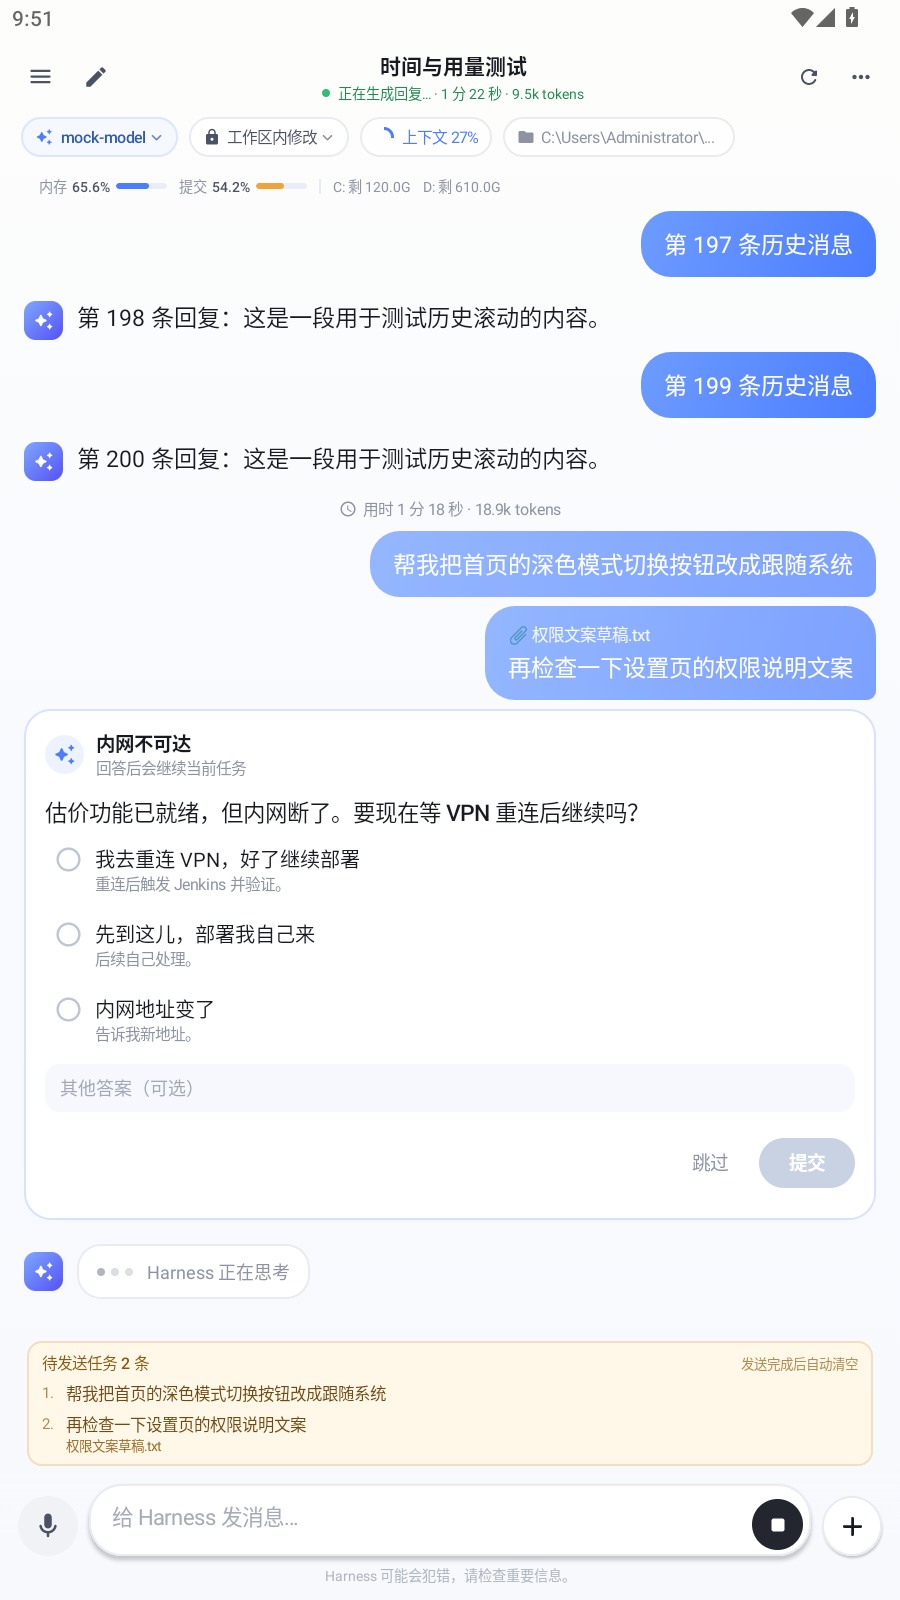
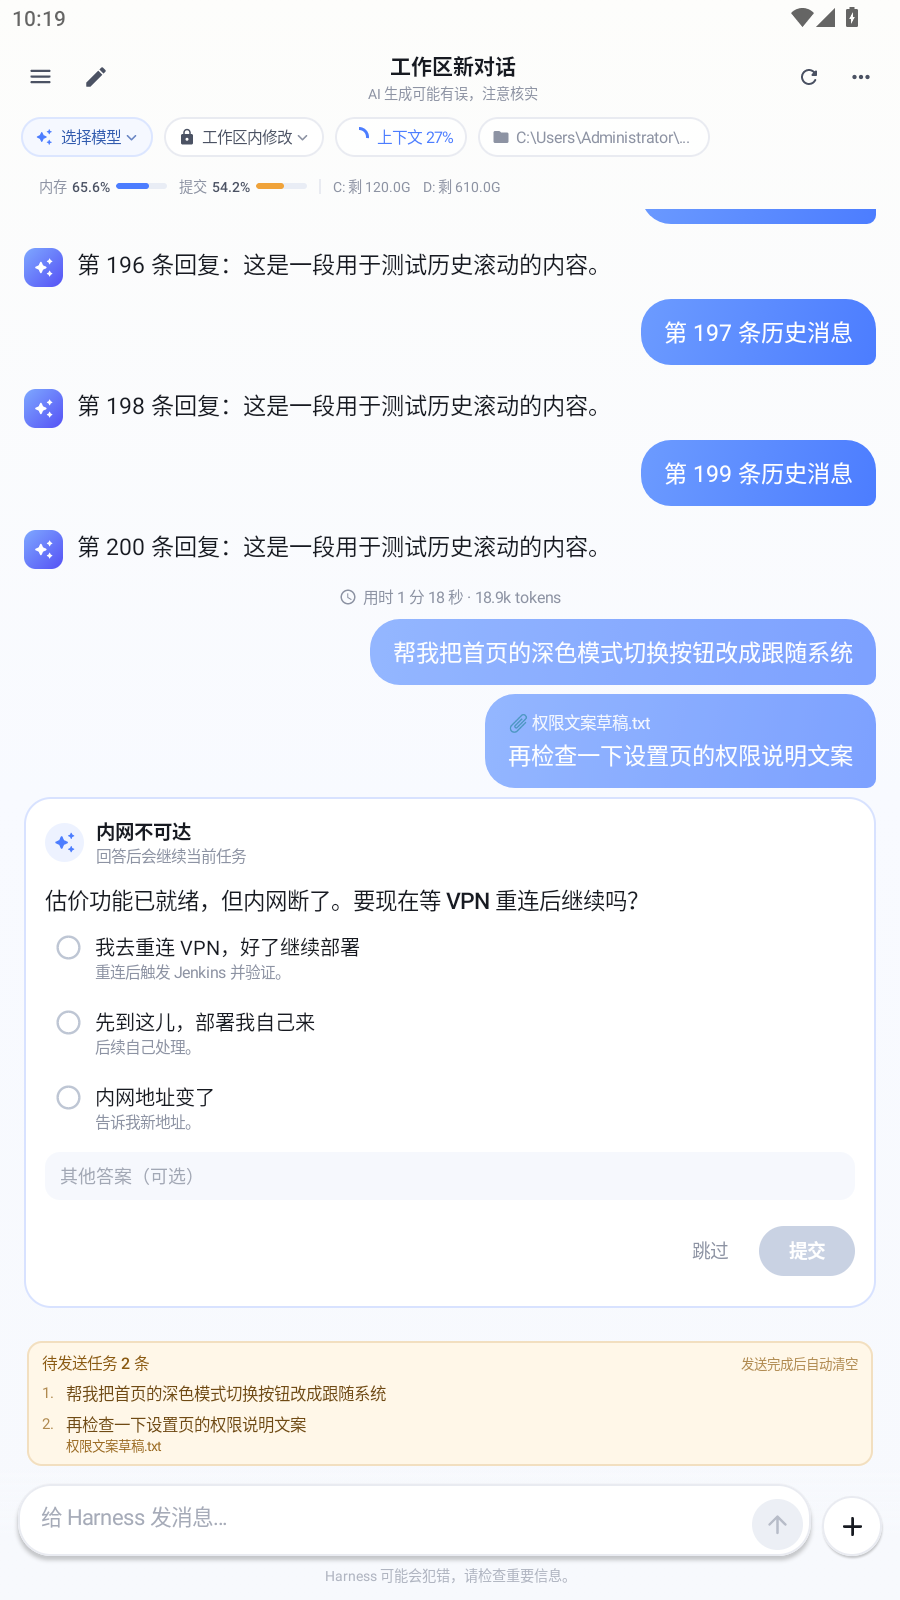
feat: remove voice input entry

diff --git a/app/src/main/java/dev/harness/pocket/ui/ChatScreen.kt b/app/src/main/java/dev/harness/pocket/ui/ChatScreen.kt
@@ -1,14 +1,7 @@
 package dev.harness.pocket.ui
 
-import android.app.Activity
-import android.content.ActivityNotFoundException
-import android.content.Intent
 import android.graphics.BitmapFactory
-import android.speech.RecognizerIntent
-import android.widget.Toast
 import androidx.activity.compose.BackHandler
-import androidx.activity.compose.rememberLauncherForActivityResult
-import androidx.activity.result.contract.ActivityResultContracts
 import androidx.compose.foundation.BorderStroke
 import androidx.compose.foundation.Image
 import androidx.compose.foundation.background
@@ -54,7 +47,6 @@ import androidx.compose.material.icons.rounded.InsertDriveFile
 import androidx.compose.material.icons.rounded.KeyboardArrowDown
 import androidx.compose.material.icons.rounded.Lock
 import androidx.compose.material.icons.rounded.Menu
-import androidx.compose.material.icons.rounded.Mic
 import androidx.compose.material.icons.rounded.MoreHoriz
 import androidx.compose.material.icons.rounded.PhotoCamera
 import androidx.compose.material.icons.rounded.PhotoLibrary
@@ -120,7 +112,6 @@ import dev.harness.pocket.data.TokenUsage
 import dev.harness.pocket.data.ToolItem
 import dev.harness.pocket.data.TurnStart
 import dev.harness.pocket.data.UserMessage
-import java.util.Locale
 import kotlinx.coroutines.Dispatchers
 import kotlinx.coroutines.delay
 import kotlinx.coroutines.withContext
@@ -165,67 +156,9 @@ fun ChatScreen(
     var menuOpen by remember { mutableStateOf(false) }
     var renameOpen by remember { mutableStateOf(false) }
     val focusManager = LocalFocusManager.current
-    val keyboardController = LocalSoftwareKeyboardController.current
     val focusRequester = remember { FocusRequester() }
-    val voiceLauncher = rememberLauncherForActivityResult(
-        ActivityResultContracts.StartActivityForResult()
-    ) { result ->
-        if (result.resultCode == Activity.RESULT_OK) {
-            val spoken = result.data
-                ?.getStringArrayListExtra(RecognizerIntent.EXTRA_RESULTS)
-                ?.firstOrNull()
-                ?.trim()
-            if (!spoken.isNullOrBlank()) {
-                onDraftChange(if (draft.isBlank()) spoken else draft.trimEnd() + " " + spoken)
-                focusRequester.requestFocus()
-            }
-        }
-    }
-
-    var voiceError by remember { mutableStateOf<String?>(null) }
-
-    fun startVoiceInput() {
-        val intent = Intent(RecognizerIntent.ACTION_RECOGNIZE_SPEECH).apply {
-            putExtra(
-                RecognizerIntent.EXTRA_LANGUAGE_MODEL,
-                RecognizerIntent.LANGUAGE_MODEL_FREE_FORM
-            )
-            putExtra(RecognizerIntent.EXTRA_LANGUAGE, Locale.getDefault().toLanguageTag())
-            putExtra(RecognizerIntent.EXTRA_PROMPT, "请说出要输入的内容")
-            putExtra(RecognizerIntent.EXTRA_MAX_RESULTS, 1)
-        }
-        try {
-            voiceLauncher.launch(intent)
-        } catch (_: ActivityNotFoundException) {
-            voiceError = "当前设备没有可用的语音识别服务。请安装或启用 Google 语音服务/系统语音助手，也可以使用输入法键盘上的麦克风按钮。模拟器通常不带语音识别。"
-        } catch (_: SecurityException) {
-            voiceError = "没有权限使用语音识别。请检查系统语音服务或输入法的麦克风权限。"
-        }
-    }
 
     BackHandler(enabled = !fullscreen, onBack = onBack)
-
-    voiceError?.let { message ->
-        AlertDialog(
-            onDismissRequest = { voiceError = null },
-            title = { Text("语音输入不可用", fontWeight = FontWeight.Bold) },
-            text = { Text(message, color = InkSoft, lineHeight = 20.sp) },
-            confirmButton = {
-                TextButton(onClick = { voiceError = null }) {
-                    Text("知道了", color = Blue)
-                }
-            },
-            dismissButton = {
-                TextButton(onClick = {
-                    voiceError = null
-                    focusRequester.requestFocus()
-                    keyboardController?.show()
-                }) {
-                    Text("用键盘语音", color = InkSoft)
-                }
-            }
-        )
-    }
 
     LaunchedEffect(state.activeSession?.sessionId) {
         fullscreen = false
@@ -421,7 +354,6 @@ fun ChatScreen(
             onAttach = onAttach,
             onOpenGallery = onOpenGallery,
             onOpenCamera = onOpenCamera,
-            onVoice = ::startVoiceInput,
             onRemoveAttachment = onRemoveAttachment,
             onFullscreen = { fullscreen = true },
             focusRequester = focusRequester
@@ -1489,7 +1421,6 @@ private fun ChatComposer(
     onAttach: () -> Unit,
     onOpenGallery: () -> Unit,
     onOpenCamera: () -> Unit,
-    onVoice: () -> Unit,
     onRemoveAttachment: (String) -> Unit,
     onFullscreen: () -> Unit,
     focusRequester: FocusRequester
@@ -1519,22 +1450,6 @@ private fun ChatComposer(
             AttachmentStrip(attachments = attachments, onRemove = onRemoveAttachment)
         }
         Row(verticalAlignment = Alignment.Bottom) {
-            Box(
-                Modifier
-                    .size(40.dp)
-                    .clip(CircleShape)
-                    .background(Color(0xFFF0F2F6))
-                    .clickable(enabled = !sending) { onVoice() },
-                contentAlignment = Alignment.Center
-            ) {
-                Icon(
-                    Icons.Rounded.Mic,
-                    contentDescription = "语音输入",
-                    tint = if (sending) Color(0xFFC4C9D3) else InkSoft,
-                    modifier = Modifier.size(20.dp)
-                )
-            }
-            Spacer(Modifier.width(7.dp))
             Surface(
                 modifier = Modifier.weight(1f),
                 shape = RoundedCornerShape(22.dp),
